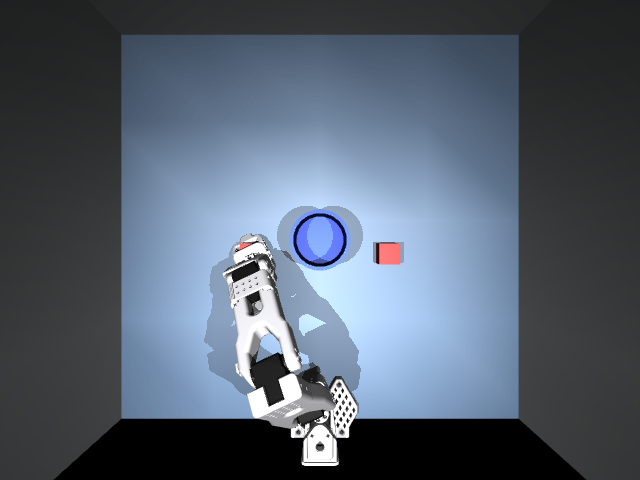
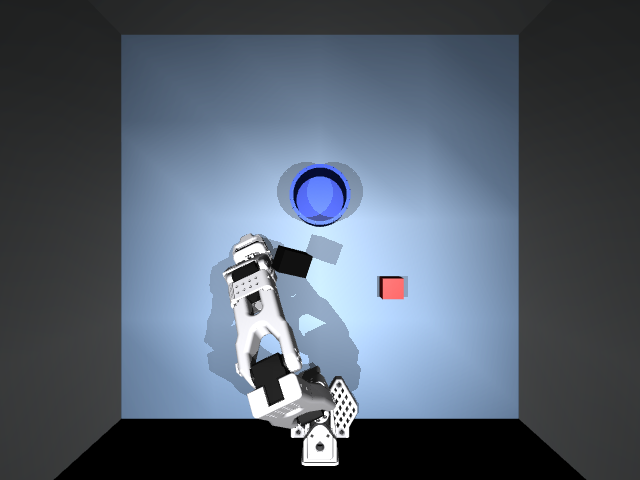
arm

Changed region(s): [[0.375, 0.3125, 0.6562, 0.625]]

diff --git a/scripts/view_scene.py b/scripts/view_scene.py
@@ -23,7 +23,20 @@ import numpy as np
 
 from sim2real_soarm.sim.scene import Layout, Scene
 
-LAYOUT = Layout((0.25, 0.10), (0.25, -0.10), (0.27, 0.0), target="left")
+
+def _layout_from_cfg(cfg) -> Layout:
+    """A representative layout at the midpoints of the configured ranges, so the
+    preview always reflects configs/scene.yaml (cube/cup placement)."""
+    def mid(rng):
+        return (rng[0] + rng[1]) / 2
+
+    cu, cp = cfg["cubes"], cfg["cup"]
+    return Layout(
+        cube_left_xy=(mid(cu["x_range"]), mid(cu["left_y_range"])),
+        cube_right_xy=(mid(cu["x_range"]), mid(cu["right_y_range"])),
+        cup_xy=(mid(cp["x_range"]), mid(cp["y_range"])),
+        target="left",
+    )
 
 
 def _pose_grasp(scene: Scene):
@@ -56,7 +69,7 @@ def main(argv=None):
         import mujoco.viewer
 
         scene = Scene(make_renderer=False)
-        scene.reset(LAYOUT)
+        scene.reset(_layout_from_cfg(scene.cfg))
         if args.pose == "grasp":
             _pose_grasp(scene)
         print("Opening viewer. In the right panel, expand 'Rendering' -> 'Camera' "
@@ -69,7 +82,7 @@ def main(argv=None):
     import imageio.v3 as iio
 
     scene = Scene()
-    scene.reset(LAYOUT)
+    scene.reset(_layout_from_cfg(scene.cfg))
     if args.pose == "grasp":
         _pose_grasp(scene)
 

diff --git a/sim2real_soarm/sim/scene.py b/sim2real_soarm/sim/scene.py
@@ -155,10 +155,21 @@ class Scene:
         )
         wcam = cam["wrist"]
         parent = spec.body(wcam["parent_body"])
+        wpos = np.asarray(wcam["pos"], float)
+        wquat = _quat_lookat(wpos, wcam["lookat_local"])
         parent.add_camera(
-            name="wrist", pos=wcam["pos"],
-            quat=_quat_lookat(wcam["pos"], wcam["lookat_local"]),
+            name="wrist", pos=wpos, quat=wquat,
             fovy=wcam["fovy"], resolution=[cam["width"], cam["height"]],
+        )
+        # Visible camera-module mount (so you can see where the wrist cam sits).
+        # Offset just behind the lens along -view_dir so it doesn't block the view.
+        view_dir = np.asarray(wcam["lookat_local"], float) - wpos
+        view_dir /= np.linalg.norm(view_dir)
+        parent.add_geom(
+            name="wrist_cam_mount", type=mj.mjtGeom.mjGEOM_BOX,
+            pos=(wpos - 0.018 * view_dir).tolist(), quat=wquat,
+            size=[0.013, 0.018, 0.010], rgba=[0.05, 0.05, 0.05, 1.0],
+            contype=0, conaffinity=0, group=2,
         )
 
         # True grasp point (between the fingers). The stock ``gripperframe`` site